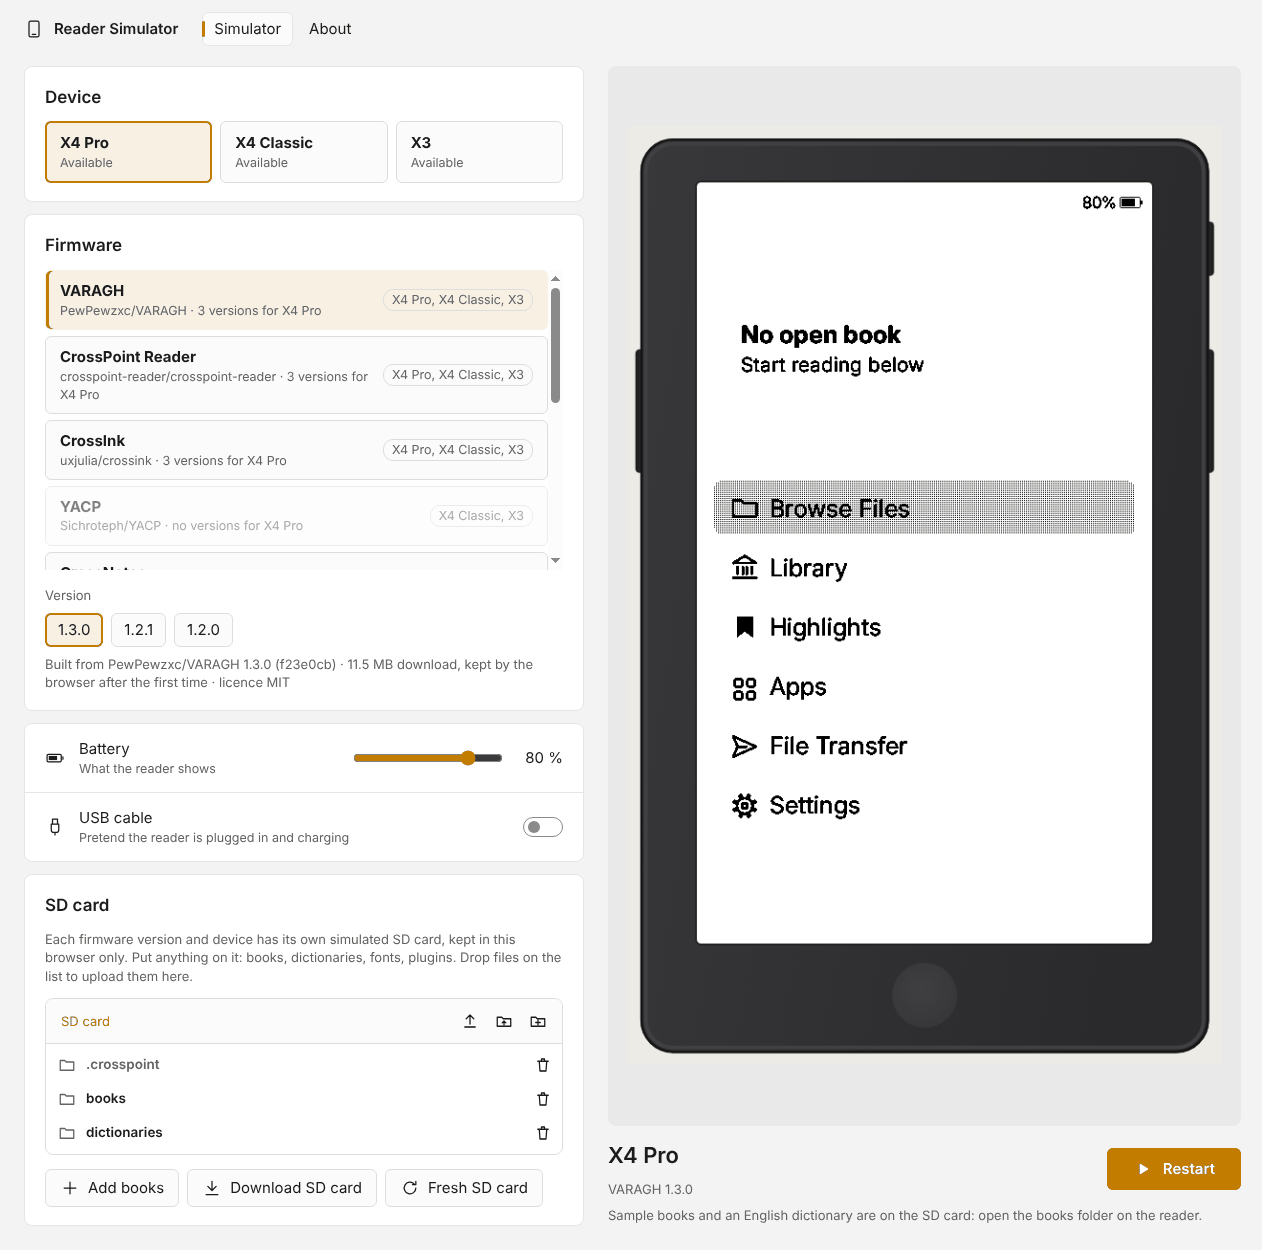
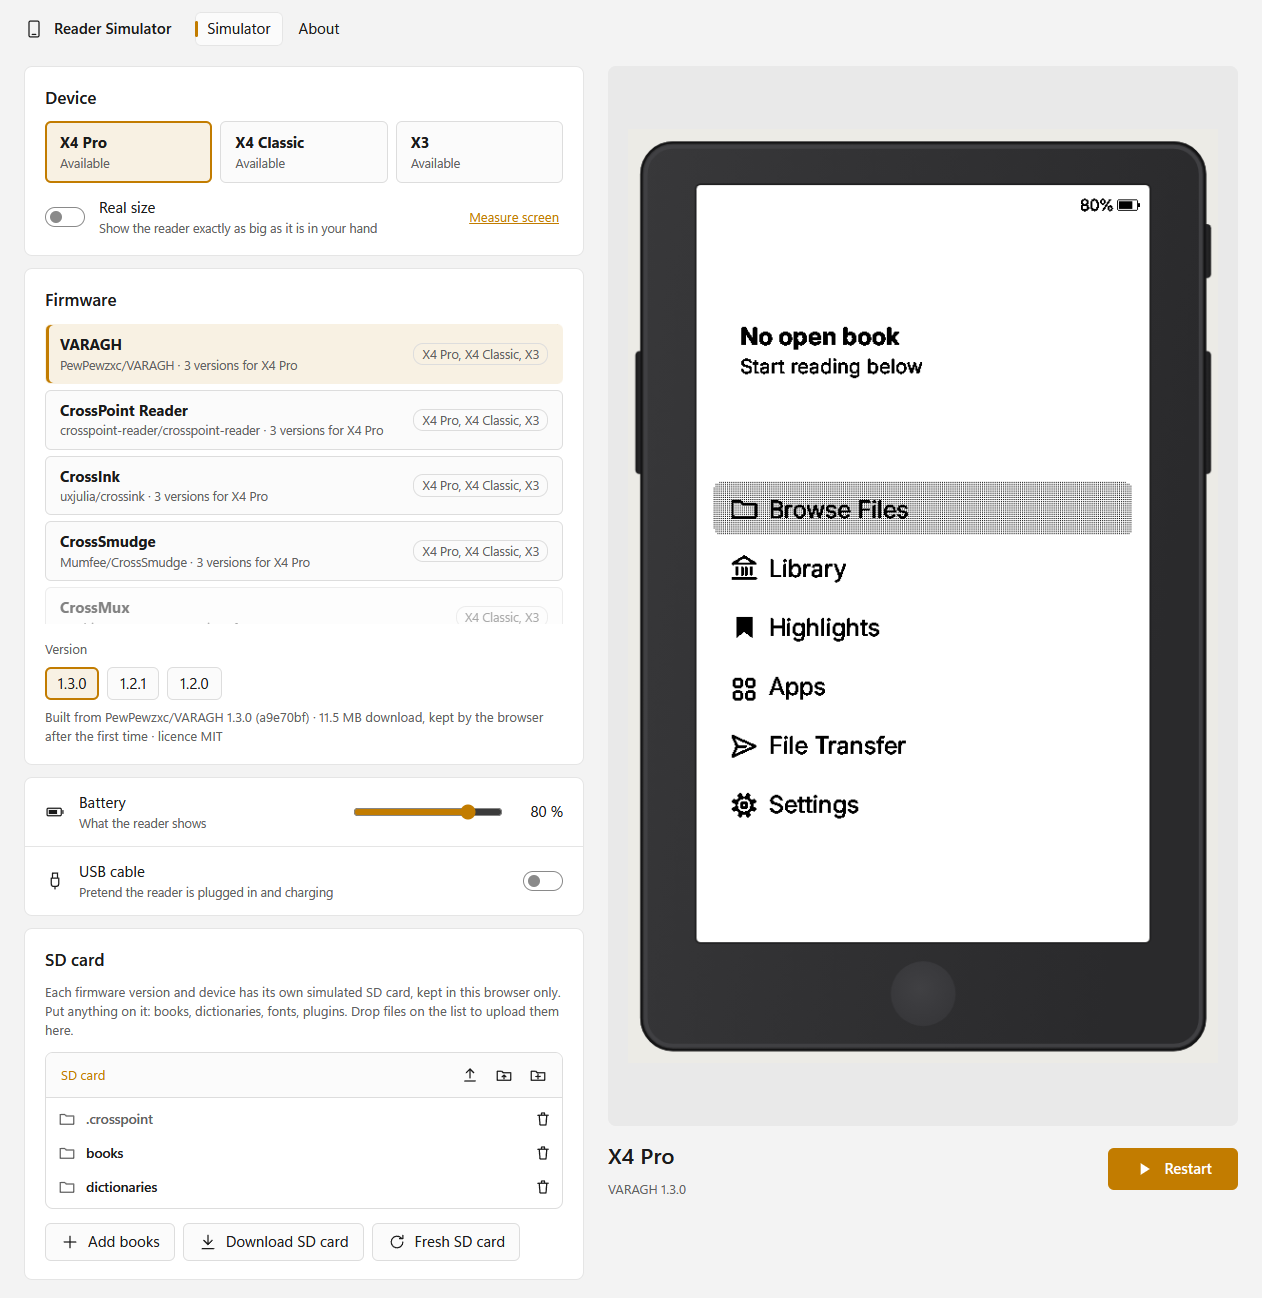
README: new picture of the page with the Real size switch

diff --git a/README.md b/README.md
@@ -11,7 +11,7 @@
 
 [**Launch the simulator**](https://pewpewzxc.github.io/reader-simulator/) · [Windows app](#windows-app) · [Supported firmwares](#supported-firmwares) · [Privacy](#privacy) · [Legal](#legal)
 
-<img src="docs/web-simulator.png" alt="The web simulator running VARAGH 1.3.0 on an X4 Pro, with the firmware list and the SD card browser" width="760">
+<img src="docs/web-simulator.png" alt="The web simulator running VARAGH 1.3.0 on an X4 Pro, with the Real size switch, the firmware list and the SD card browser" width="760">
 
 </div>
 
